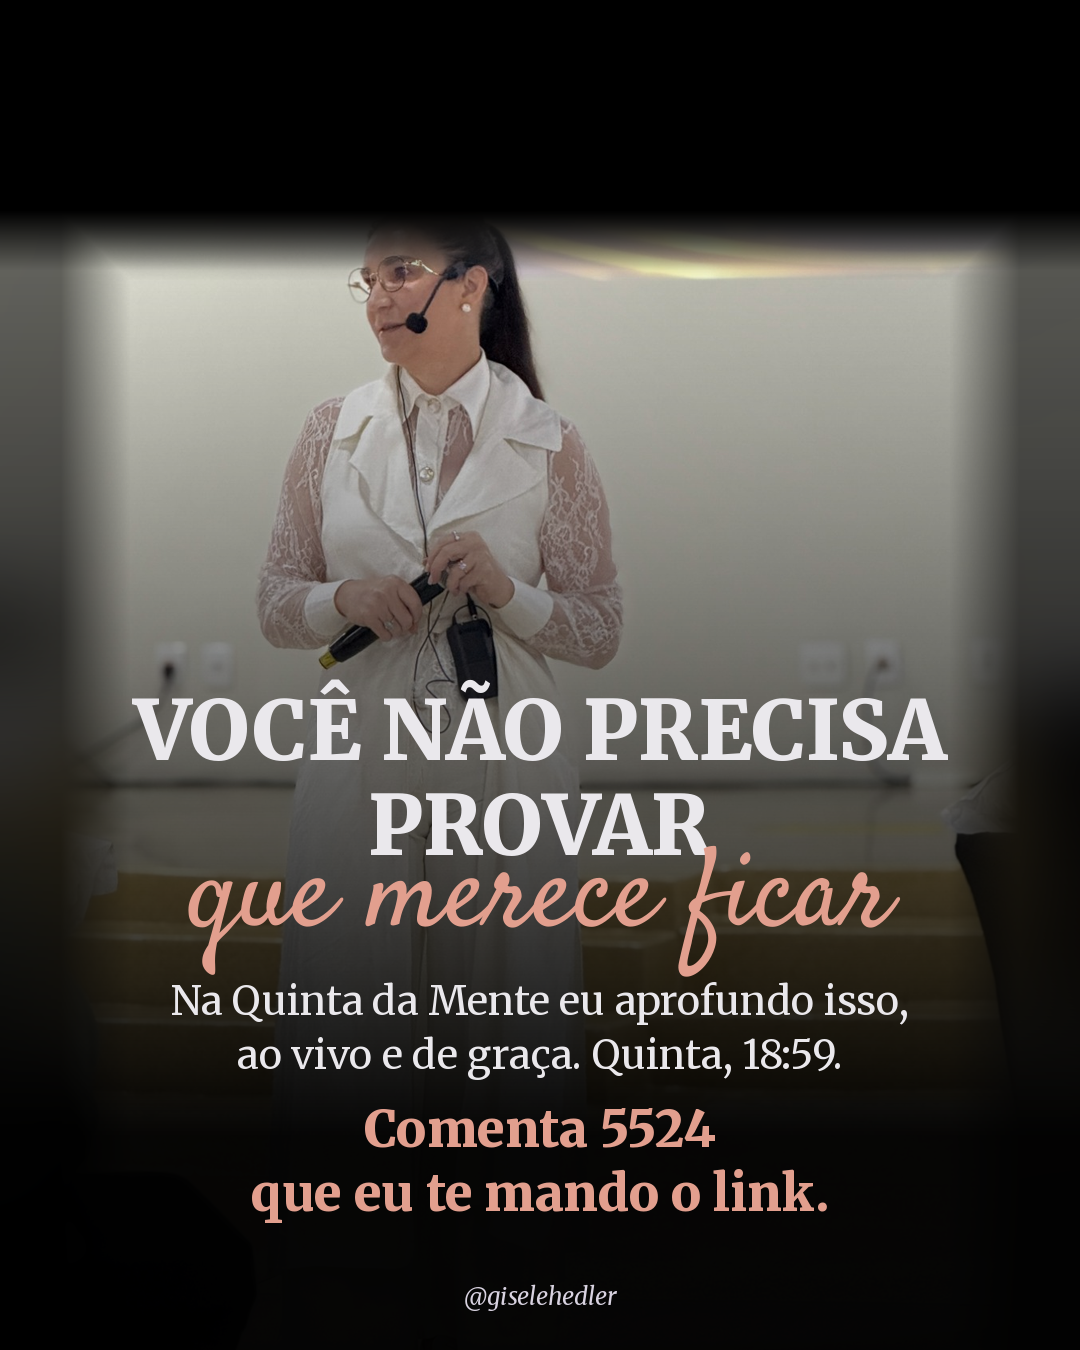
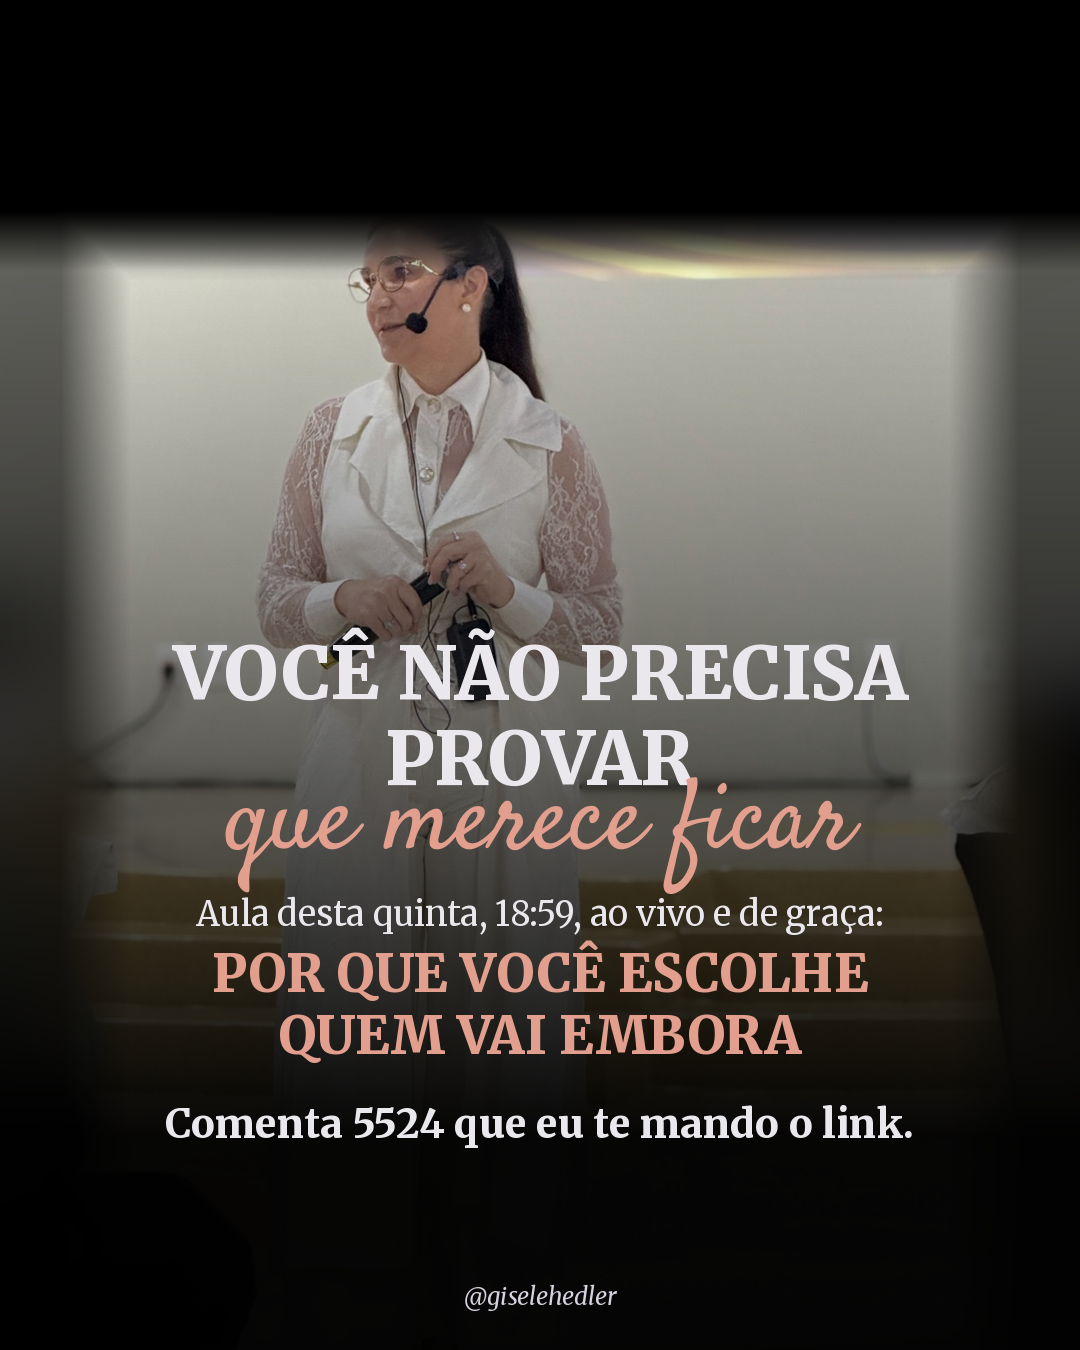
Carrossel pais ausentes: slide final com o tema da Quinta
Claude-Session: https://claude.ai/code/session_01UQX7rfK53Xmv3nMSefSp7k

Changed region(s): [[0.1222, 0.4667, 0.8861, 0.9022]]

diff --git a/carrosseis/pais-ausentes-quinta/montar.py b/carrosseis/pais-ausentes-quinta/montar.py
@@ -185,13 +185,13 @@ for yy in range(H): fade.putpixel((0,yy),255 if yy<TOPO else int(255*max(0,1-(yy
 img.paste(Image.new('RGB',(W,H),'#000'),(0,0),fade.resize((W,H)))
 img=gradiente(img,de=0.20,forca=248)
 d=ImageDraw.Draw(img)
-y=titulo_cursiva(d,760,['VOCÊ NÃO PRECISA','PROVAR'],'que merece ficar',tsz=82,csz=112)
-y+=30
-for l in ['Na Quinta da Mente eu aprofundo isso,','ao vivo e de graça. Quinta, 18:59.']:
-    d.text((W/2,y),l,font=f(REG,40),fill=BRANCO,anchor='ms'); y+=54
+y=titulo_cursiva(d,700,['VOCÊ NÃO PRECISA','PROVAR'],'que merece ficar',tsz=74,csz=100)
 y+=24
-for l in ['Comenta 5524','que eu te mando o link.']:
-    d.text((W/2,y),l,font=f(BLK,50),fill=ROSE,anchor='ms'); y+=64
+d.text((W/2,y),'Aula desta quinta, 18:59, ao vivo e de graça:',font=f(REG,34),fill=BRANCO,anchor='ms'); y+=66
+for l in ['POR QUE VOCÊ ESCOLHE','QUEM VAI EMBORA']:
+    d.text((W/2,y),l,font=f(BLK,52),fill=ROSE,anchor='ms'); y+=62
+y+=22
+d.text((W/2,y),'Comenta 5524 que eu te mando o link.',font=f(B8,40),fill=BRANCO,anchor='ms')
 d.text((W/2,H-45),'@giselehedler',font=f(ITA,24),fill='#d8d2e0',anchor='ms')
 img.save(OUT+'10.png')
 
